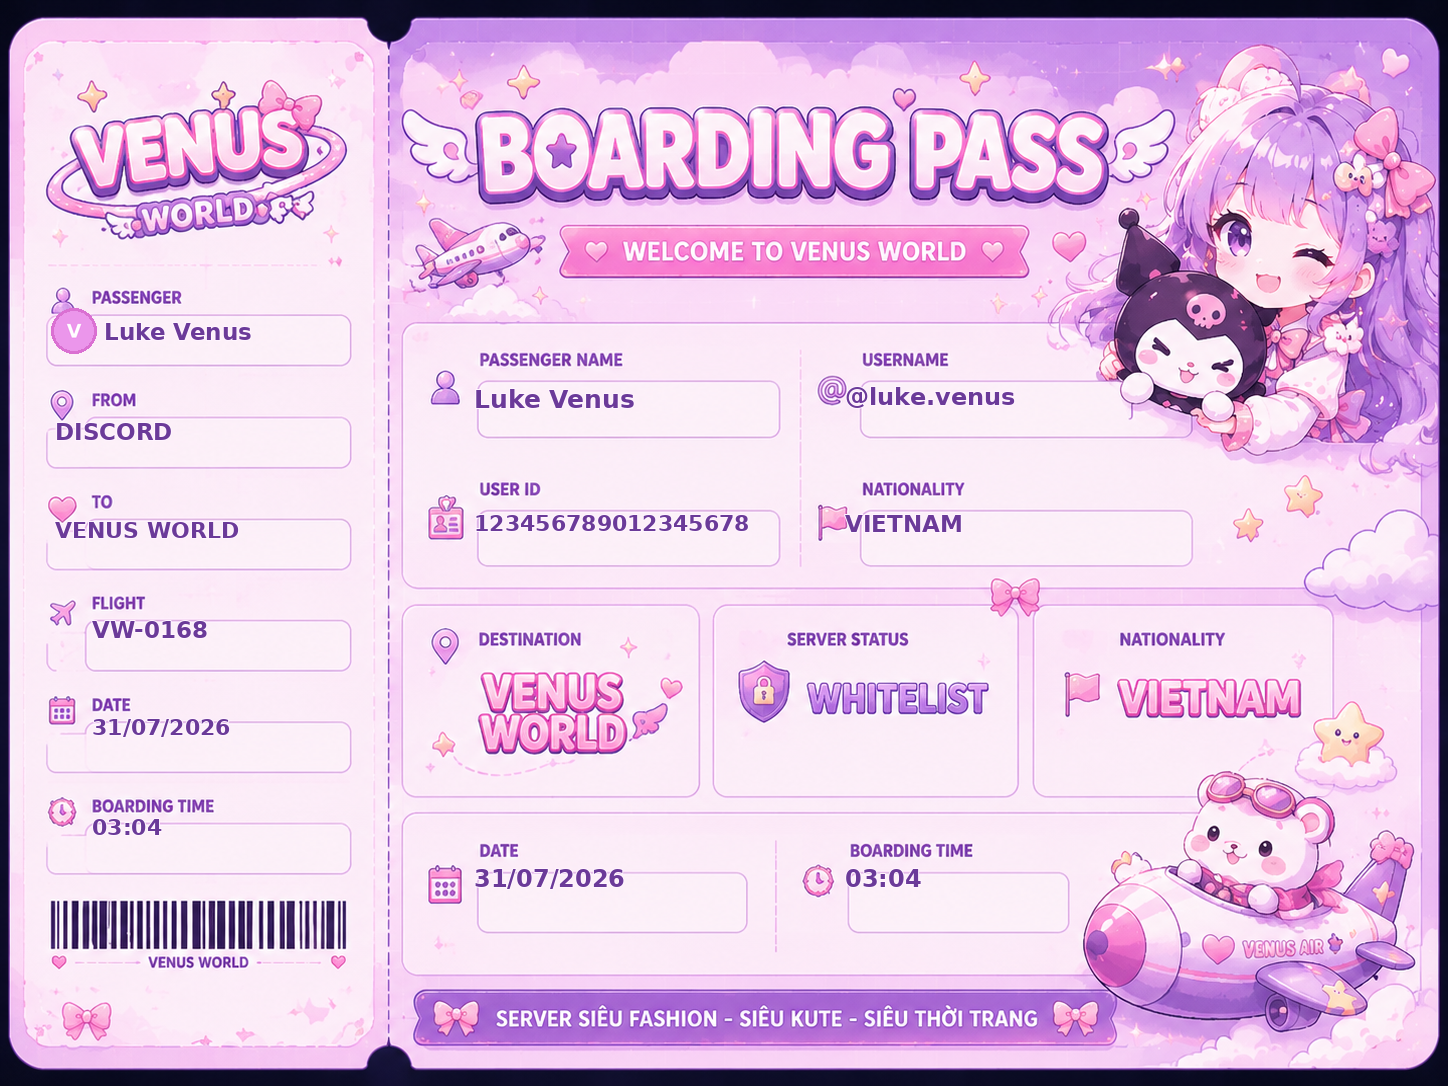
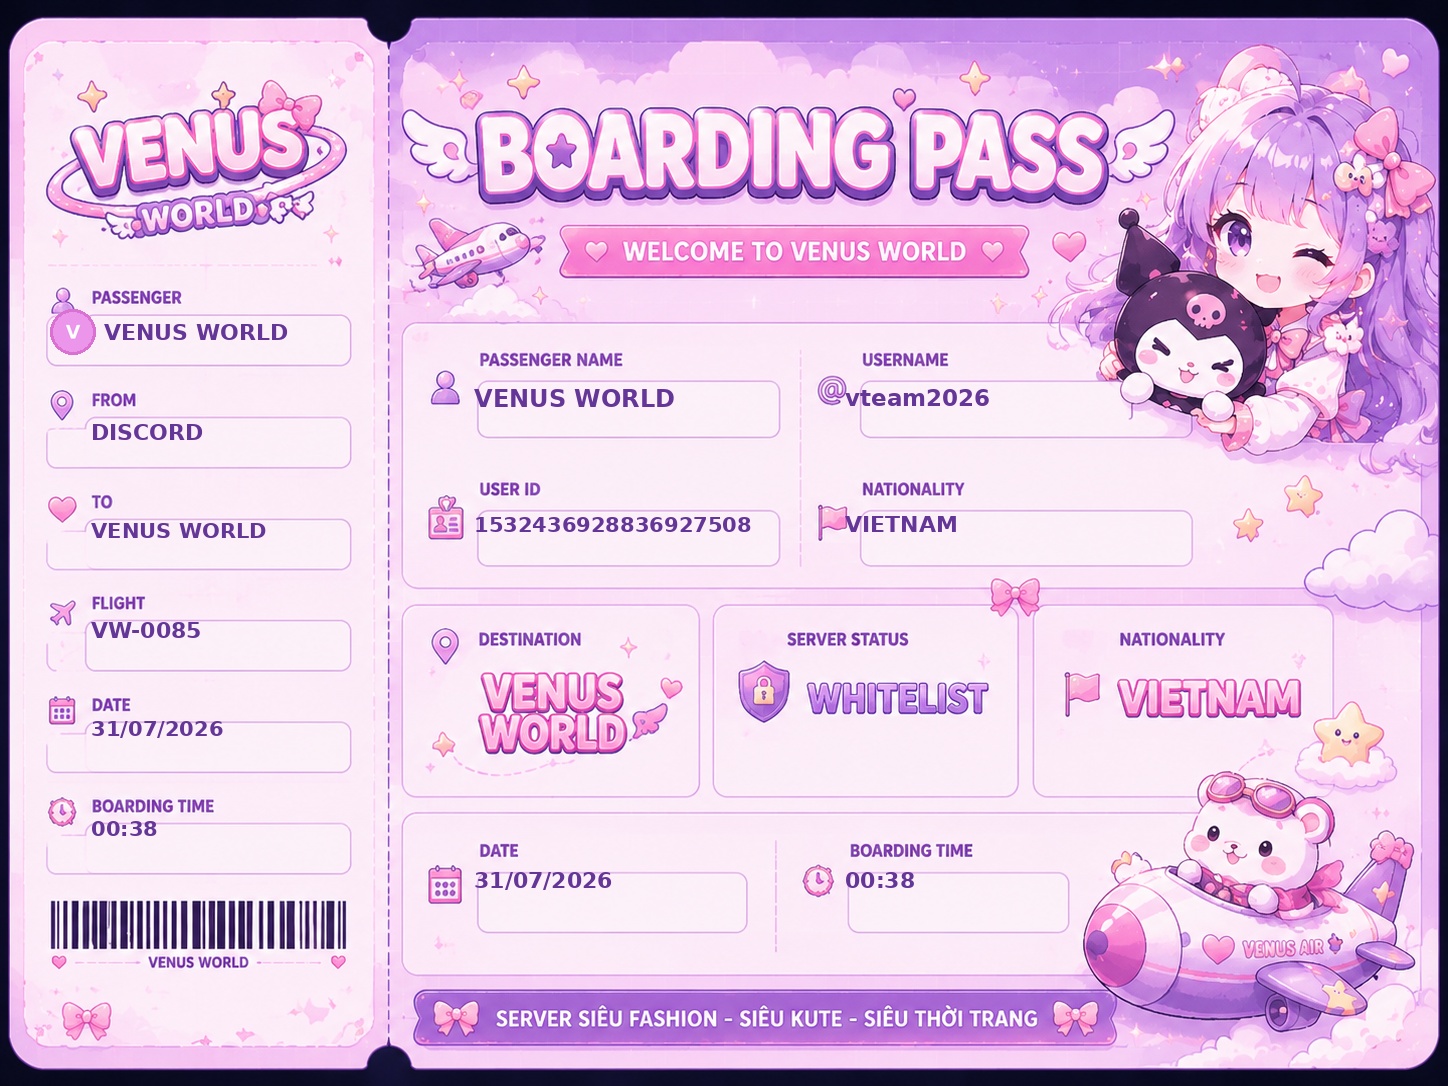
Update 1.0.1

diff --git a/card_generator.py b/card_generator.py
@@ -11,8 +11,8 @@ from PIL import Image, ImageDraw, ImageFont, ImageOps
 BASE_DIR = Path(__file__).resolve().parent
 DEFAULT_TEMPLATE = BASE_DIR / "assets" / "boarding_pass.png"
 
-TEXT_COLOR = (107, 58, 153, 255)
-TEXT_STROKE = (255, 245, 255, 235)
+# Màu chữ tím đậm của mẫu vé.
+TEXT_COLOR = (99, 54, 151, 255)
 AVATAR_BORDER = (218, 112, 210, 255)
 
 
@@ -34,32 +34,34 @@ class WelcomeCardData:
 
 
 def _font_candidates(bold: bool) -> Iterable[Path]:
+    """Tìm font hoạt động được trên Windows VPS và Railway Linux."""
     env_name = "FONT_BOLD" if bold else "FONT_REGULAR"
-    if os.getenv(env_name):
-        yield Path(os.environ[env_name])
+    custom_font = os.getenv(env_name, "").strip()
+    if custom_font:
+        yield Path(custom_font)
 
     if os.name == "nt":
-        windir = Path(os.getenv("WINDIR", r"C:\Windows")) / "Fonts"
+        font_dir = Path(os.getenv("WINDIR", r"C:\Windows")) / "Fonts"
         names = (
             ("arialbd.ttf", "segoeuib.ttf", "calibrib.ttf")
             if bold
             else ("arial.ttf", "segoeui.ttf", "calibri.ttf")
         )
         for name in names:
-            yield windir / name
+            yield font_dir / name
     else:
         names = (
             (
                 "/usr/share/fonts/truetype/dejavu/DejaVuSans-Bold.ttf",
+                "/usr/share/fonts/truetype/liberation2/LiberationSans-Bold.ttf",
                 "/usr/share/fonts/truetype/lato/Lato-Bold.ttf",
-                "/usr/share/fonts/opentype/inter/InterDisplay-Bold.otf",
                 "/System/Library/Fonts/Supplemental/Arial Bold.ttf",
             )
             if bold
             else (
                 "/usr/share/fonts/truetype/dejavu/DejaVuSans.ttf",
+                "/usr/share/fonts/truetype/liberation2/LiberationSans-Regular.ttf",
                 "/usr/share/fonts/truetype/lato/Lato-Regular.ttf",
-                "/usr/share/fonts/opentype/inter/InterDisplay-Regular.otf",
                 "/System/Library/Fonts/Supplemental/Arial.ttf",
             )
         )
@@ -67,18 +69,19 @@ def _font_candidates(bold: bool) -> Iterable[Path]:
             yield Path(name)
 
 
-def _load_font(size: int, *, bold: bool = True) -> ImageFont.FreeTypeFont | ImageFont.ImageFont:
+def _load_font(size: int, *, bold: bool = True) -> ImageFont.ImageFont:
     for path in _font_candidates(bold):
-        if path.is_file():
-            try:
-                return ImageFont.truetype(str(path), size=size)
-            except OSError:
-                continue
+        if not path.is_file():
+            continue
+        try:
+            return ImageFont.truetype(str(path), size=size)
+        except OSError:
+            continue
     return ImageFont.load_default()
 
 
-def _text_width(draw: ImageDraw.ImageDraw, text: str, font: ImageFont.ImageFont, stroke_width: int = 0) -> int:
-    box = draw.textbbox((0, 0), text, font=font, stroke_width=stroke_width)
+def _measure_width(draw: ImageDraw.ImageDraw, text: str, font: ImageFont.ImageFont) -> int:
+    box = draw.textbbox((0, 0), text, font=font)
     return box[2] - box[0]
 
 
@@ -87,9 +90,8 @@ def _ellipsize(
     text: str,
     font: ImageFont.ImageFont,
     max_width: int,
-    stroke_width: int = 0,
 ) -> str:
-    if _text_width(draw, text, font, stroke_width) <= max_width:
+    if _measure_width(draw, text, font) <= max_width:
         return text
 
     suffix = "…"
@@ -97,65 +99,62 @@ def _ellipsize(
     while low < high:
         mid = (low + high + 1) // 2
         candidate = text[:mid].rstrip() + suffix
-        if _text_width(draw, candidate, font, stroke_width) <= max_width:
+        if _measure_width(draw, candidate, font) <= max_width:
             low = mid
         else:
             high = mid - 1
     return text[:low].rstrip() + suffix
 
 
-def draw_fitted_text(
+def draw_field_text(
     draw: ImageDraw.ImageDraw,
     box: tuple[int, int, int, int],
     text: str,
     *,
     max_size: int,
-    min_size: int = 15,
-    bold: bool = True,
-    fill: tuple[int, int, int, int] = TEXT_COLOR,
-    stroke_width: int = 1,
-    stroke_fill: tuple[int, int, int, int] = TEXT_STROKE,
+    min_size: int = 14,
     padding_x: int = 8,
+    bold: bool = True,
     align: str = "left",
 ) -> None:
+    """
+    Ghi chữ chính giữa theo chiều dọc của ô.
+
+    Dùng anchor='lm/mm/rm' để tránh lỗi chữ bị dồn lên mép trên khi chạy
+    bằng font khác nhau giữa Windows và Railway Linux.
+    """
     x1, y1, x2, y2 = box
-    available_width = max(1, x2 - x1 - padding_x * 2)
-    available_height = max(1, y2 - y1)
     clean_text = " ".join(str(text).split()) or "-"
+    max_width = max(1, x2 - x1 - padding_x * 2)
 
     selected_font: ImageFont.ImageFont | None = None
     for size in range(max_size, min_size - 1, -1):
         font = _load_font(size, bold=bold)
-        bounds = draw.textbbox((0, 0), clean_text, font=font, stroke_width=stroke_width)
-        width = bounds[2] - bounds[0]
-        height = bounds[3] - bounds[1]
-        if width <= available_width and height <= available_height - 4:
+        if _measure_width(draw, clean_text, font) <= max_width:
             selected_font = font
             break
 
     if selected_font is None:
         selected_font = _load_font(min_size, bold=bold)
-        clean_text = _ellipsize(draw, clean_text, selected_font, available_width, stroke_width)
+        clean_text = _ellipsize(draw, clean_text, selected_font, max_width)
 
-    bounds = draw.textbbox((0, 0), clean_text, font=selected_font, stroke_width=stroke_width)
-    text_width = bounds[2] - bounds[0]
-    text_height = bounds[3] - bounds[1]
-
+    center_y = (y1 + y2) / 2 + 1
     if align == "center":
-        x = x1 + (x2 - x1 - text_width) / 2
+        x = (x1 + x2) / 2
+        anchor = "mm"
     elif align == "right":
-        x = x2 - padding_x - text_width
+        x = x2 - padding_x
+        anchor = "rm"
     else:
         x = x1 + padding_x
+        anchor = "lm"
 
-    y = y1 + (available_height - text_height) / 2 - bounds[1]
     draw.text(
-        (round(x), round(y)),
+        (round(x), round(center_y)),
         clean_text,
         font=selected_font,
-        fill=fill,
-        stroke_width=stroke_width,
-        stroke_fill=stroke_fill,
+        fill=TEXT_COLOR,
+        anchor=anchor,
     )
 
 
@@ -168,18 +167,31 @@ def _paste_round_avatar(base: Image.Image, avatar_bytes: bytes | None) -> None:
     except Exception:
         return
 
-    size = 40
-    avatar = ImageOps.fit(avatar, (size, size), method=Image.Resampling.LANCZOS)
-    mask = Image.new("L", (size, size), 0)
-    mask_draw = ImageDraw.Draw(mask)
-    mask_draw.ellipse((0, 0, size - 1, size - 1), fill=255)
+    avatar_size = 40
+    border_width = 3
+    full_size = avatar_size + border_width * 2
 
-    border_size = size + 6
-    border = Image.new("RGBA", (border_size, border_size), (0, 0, 0, 0))
-    border_draw = ImageDraw.Draw(border)
-    border_draw.ellipse((0, 0, border_size - 1, border_size - 1), fill=AVATAR_BORDER)
-    border.paste(avatar, (3, 3), mask)
-    base.alpha_composite(border, (51, 308))
+    avatar = ImageOps.fit(
+        avatar,
+        (avatar_size, avatar_size),
+        method=Image.Resampling.LANCZOS,
+    )
+
+    avatar_mask = Image.new("L", (avatar_size, avatar_size), 0)
+    ImageDraw.Draw(avatar_mask).ellipse(
+        (0, 0, avatar_size - 1, avatar_size - 1),
+        fill=255,
+    )
+
+    avatar_layer = Image.new("RGBA", (full_size, full_size), (0, 0, 0, 0))
+    ImageDraw.Draw(avatar_layer).ellipse(
+        (0, 0, full_size - 1, full_size - 1),
+        fill=AVATAR_BORDER,
+    )
+    avatar_layer.paste(avatar, (border_width, border_width), avatar_mask)
+
+    # Chính giữa ô PASSENGER bên trái.
+    base.alpha_composite(avatar_layer, (50, 309))
 
 
 def make_welcome_card(
@@ -193,27 +205,37 @@ def make_welcome_card(
         raise FileNotFoundError(f"Không tìm thấy ảnh template: {template}")
 
     image = Image.open(template).convert("RGBA")
-    draw = ImageDraw.Draw(image)
+    if image.size != (1448, 1086):
+        raise ValueError(
+            "Ảnh boarding_pass.png phải đúng kích thước 1448x1086 để thông tin không bị lệch. "
+            f"Kích thước hiện tại: {image.width}x{image.height}."
+        )
 
+    draw = ImageDraw.Draw(image)
     _paste_round_avatar(image, avatar_bytes)
 
-    # Vé nhỏ bên trái
-    draw_fitted_text(draw, (96, 307, 342, 356), data.display_name, max_size=23, min_size=14)
-    draw_fitted_text(draw, (47, 407, 342, 455), data.origin.upper(), max_size=23, min_size=15)
-    draw_fitted_text(draw, (47, 506, 342, 554), data.destination.upper(), max_size=22, min_size=14)
-    draw_fitted_text(draw, (84, 605, 342, 653), data.resolved_flight_code().upper(), max_size=23, min_size=15)
-    draw_fitted_text(draw, (84, 704, 342, 752), data.date_text, max_size=22, min_size=15)
-    draw_fitted_text(draw, (84, 803, 342, 851), data.time_text, max_size=22, min_size=15)
+    # ------------------------------------------------------------------
+    # Vé nhỏ bên trái: chỉ ghi vào phần trống bên dưới nhãn của từng ô.
+    # ------------------------------------------------------------------
+    draw_field_text(draw, (96, 307, 343, 356), data.display_name, max_size=22, min_size=14)
+    draw_field_text(draw, (83, 406, 343, 455), data.origin.upper(), max_size=22, min_size=14)
+    draw_field_text(draw, (83, 505, 343, 554), data.destination.upper(), max_size=21, min_size=13)
+    draw_field_text(draw, (83, 604, 343, 653), data.resolved_flight_code().upper(), max_size=22, min_size=14)
+    draw_field_text(draw, (83, 703, 343, 752), data.date_text, max_size=21, min_size=14)
+    draw_field_text(draw, (83, 802, 343, 851), data.time_text, max_size=21, min_size=14)
 
-    # Thông tin chính
-    draw_fitted_text(draw, (466, 370, 760, 426), data.display_name, max_size=25, min_size=15)
-    draw_fitted_text(draw, (837, 370, 1162, 426), f"@{data.username.lstrip('@')}", max_size=24, min_size=14)
-    draw_fitted_text(draw, (466, 497, 760, 550), str(data.user_id), max_size=22, min_size=14)
-    draw_fitted_text(draw, (837, 497, 1162, 550), data.nationality.upper(), max_size=23, min_size=15)
+    # ------------------------------------------------------------------
+    # Khối thông tin chính.
+    # Template đã có icon @ nên username không cần thêm dấu @ lần nữa.
+    # ------------------------------------------------------------------
+    draw_field_text(draw, (466, 370, 760, 425), data.display_name, max_size=24, min_size=14)
+    draw_field_text(draw, (837, 370, 1164, 425), data.username.lstrip("@"), max_size=23, min_size=14)
+    draw_field_text(draw, (466, 497, 760, 550), str(data.user_id), max_size=21, min_size=13)
+    draw_field_text(draw, (837, 497, 1164, 550), data.nationality.upper(), max_size=22, min_size=14)
 
-    # Ngày và giờ ở phần dưới
-    draw_fitted_text(draw, (466, 849, 727, 908), data.date_text, max_size=24, min_size=15)
-    draw_fitted_text(draw, (837, 849, 1042, 908), data.time_text, max_size=24, min_size=15)
+    # Ngày và giờ ở hàng dưới cùng.
+    draw_field_text(draw, (466, 849, 728, 908), data.date_text, max_size=22, min_size=14)
+    draw_field_text(draw, (837, 849, 1042, 908), data.time_text, max_size=22, min_size=14)
 
     output = BytesIO()
     image.convert("RGB").save(output, format="PNG", optimize=True)

diff --git a/preview.py b/preview.py
@@ -1,17 +1,21 @@
 from pathlib import Path
 from PIL import Image, ImageDraw, ImageFont
+
 from card_generator import WelcomeCardData, make_welcome_card
 
 BASE_DIR = Path(__file__).resolve().parent
 
-# Avatar giả để kiểm tra bố cục mà không cần kết nối Discord.
+# Avatar giả để xem bố cục mà không cần kết nối Discord.
 avatar = Image.new("RGBA", (256, 256), (235, 150, 235, 255))
 draw = ImageDraw.Draw(avatar)
 try:
     font = ImageFont.truetype("C:/Windows/Fonts/arialbd.ttf", 120)
 except OSError:
     try:
-        font = ImageFont.truetype("/usr/share/fonts/truetype/dejavu/DejaVuSans-Bold.ttf", 120)
+        font = ImageFont.truetype(
+            "/usr/share/fonts/truetype/dejavu/DejaVuSans-Bold.ttf",
+            120,
+        )
     except OSError:
         font = ImageFont.load_default()
 
@@ -19,17 +23,17 @@ draw.text((128, 128), "V", anchor="mm", font=font, fill="white")
 avatar_path = BASE_DIR / "preview-avatar.png"
 avatar.save(avatar_path)
 
-with avatar_path.open("rb") as file:
-    data = WelcomeCardData(
-        display_name="Luke Venus",
-        username="luke.venus",
-        user_id="123456789012345678",
-        member_number=168,
+with avatar_path.open("rb") as avatar_file:
+    card_data = WelcomeCardData(
+        display_name="VENUS WORLD",
+        username="vteam2026",
+        user_id="1532436928836927508",
+        member_number=85,
         date_text="31/07/2026",
-        time_text="03:04",
+        time_text="00:38",
     )
-    output = make_welcome_card(data, avatar_bytes=file.read())
+    result = make_welcome_card(card_data, avatar_bytes=avatar_file.read())
 
 preview_path = BASE_DIR / "preview.png"
-preview_path.write_bytes(output)
-print(f"Đã tạo: {preview_path}")
+preview_path.write_bytes(result)
+print(f"Đã tạo preview: {preview_path}")

diff --git a/README.md b/README.md
@@ -77,3 +77,22 @@ Bot tự tìm Arial/Segoe UI trên Windows. Có thể chỉ định trực tiế
 FONT_BOLD=C:\Windows\Fonts\arialbd.ttf
 FONT_REGULAR=C:\Windows\Fonts\arial.ttf
 ```
+
+## Deploy lên Railway
+
+Source đã có sẵn `railway.json` và `Procfile`.
+
+1. Đưa toàn bộ file trong thư mục này lên **root** của GitHub repository.
+2. Không upload `.env` thật lên GitHub.
+3. Railway → **New Project** → **Deploy from GitHub Repo**.
+4. Trong **Variables**, nhập các biến từ `.env.example`.
+5. Start Command đã được đặt sẵn là `python bot.py`.
+
+Bot Discord không cần Domain và không cần biến `PORT`.
+
+## Bản sửa bố cục
+
+- Chữ được căn giữa theo chiều dọc bằng text anchor, nên không còn dồn lên mép ô khi đổi từ Windows sang Railway Linux.
+- Các dòng `FROM`, `TO`, `FLIGHT`, `DATE`, `BOARDING TIME` được căn cùng một trục.
+- Username không bị lặp hai dấu `@` vì template đã có icon `@`.
+- Template bắt buộc giữ đúng kích thước `1448x1086`.
